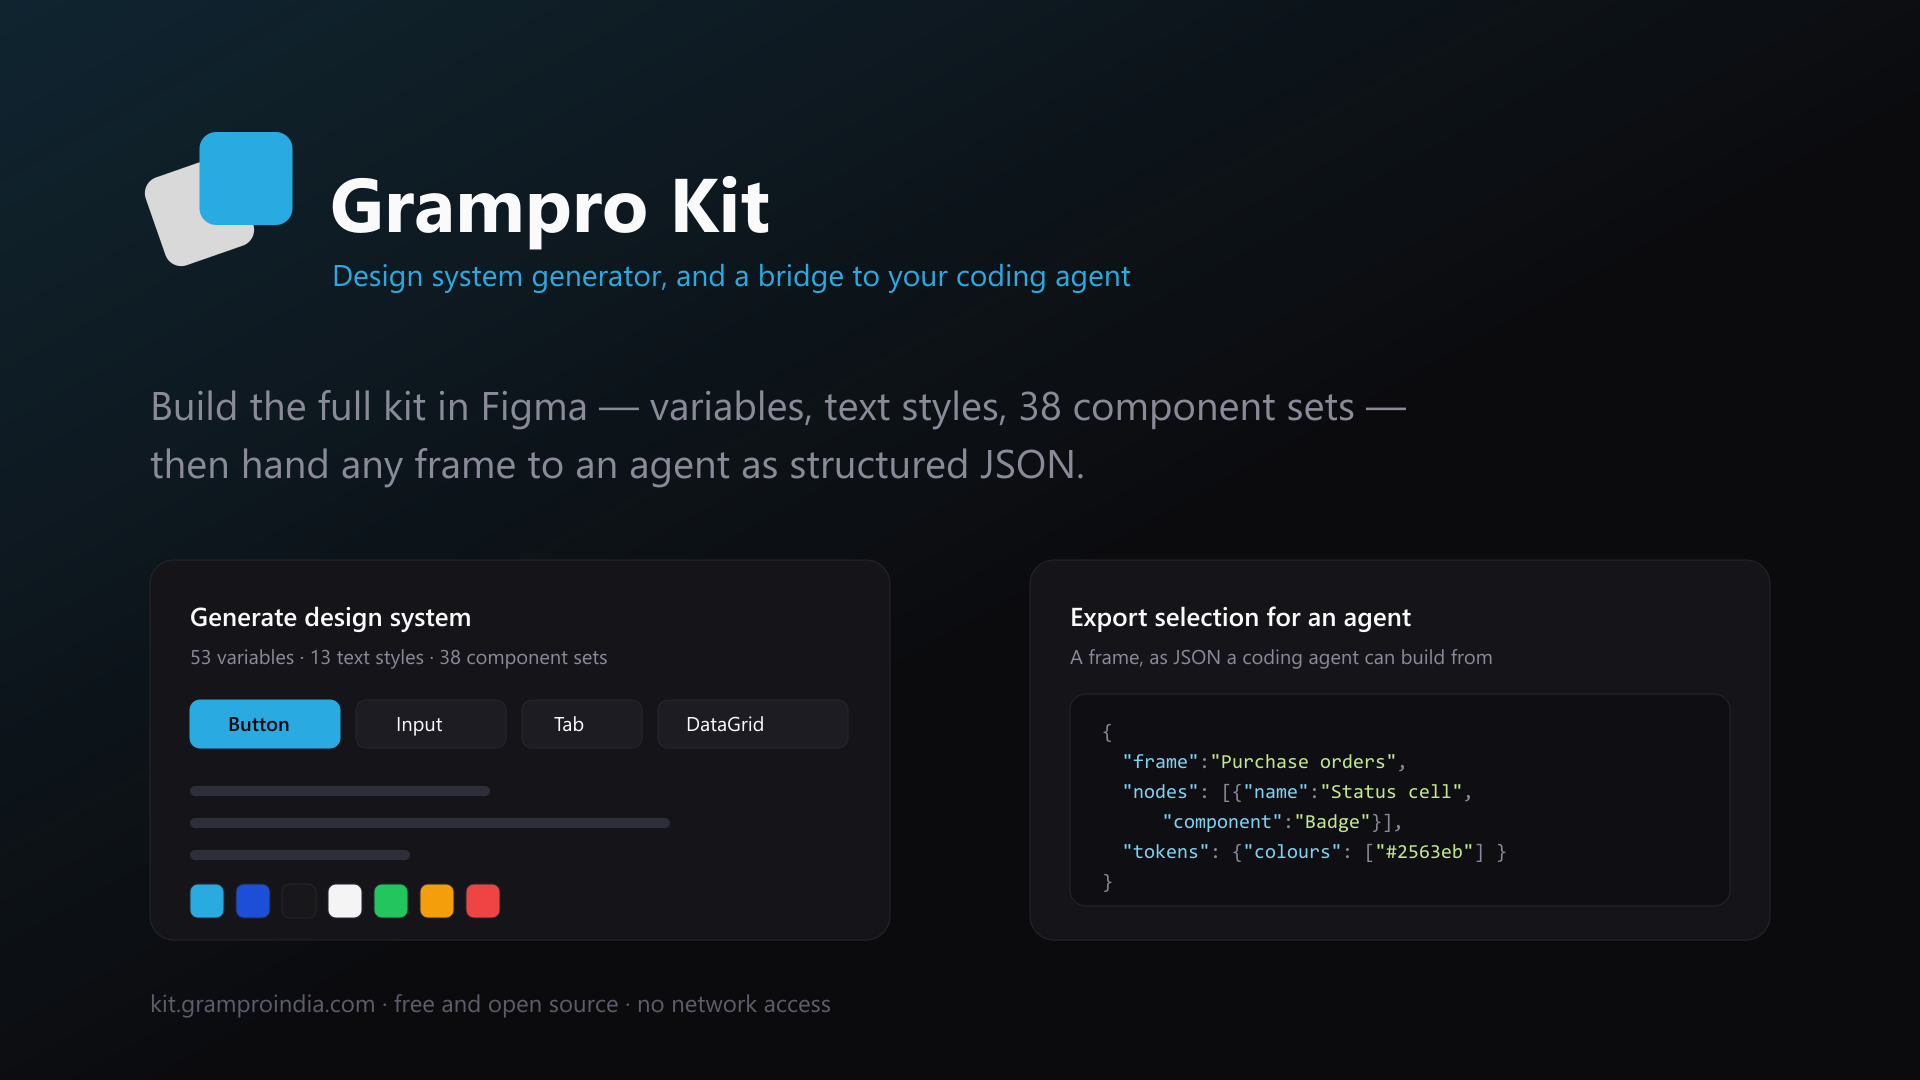
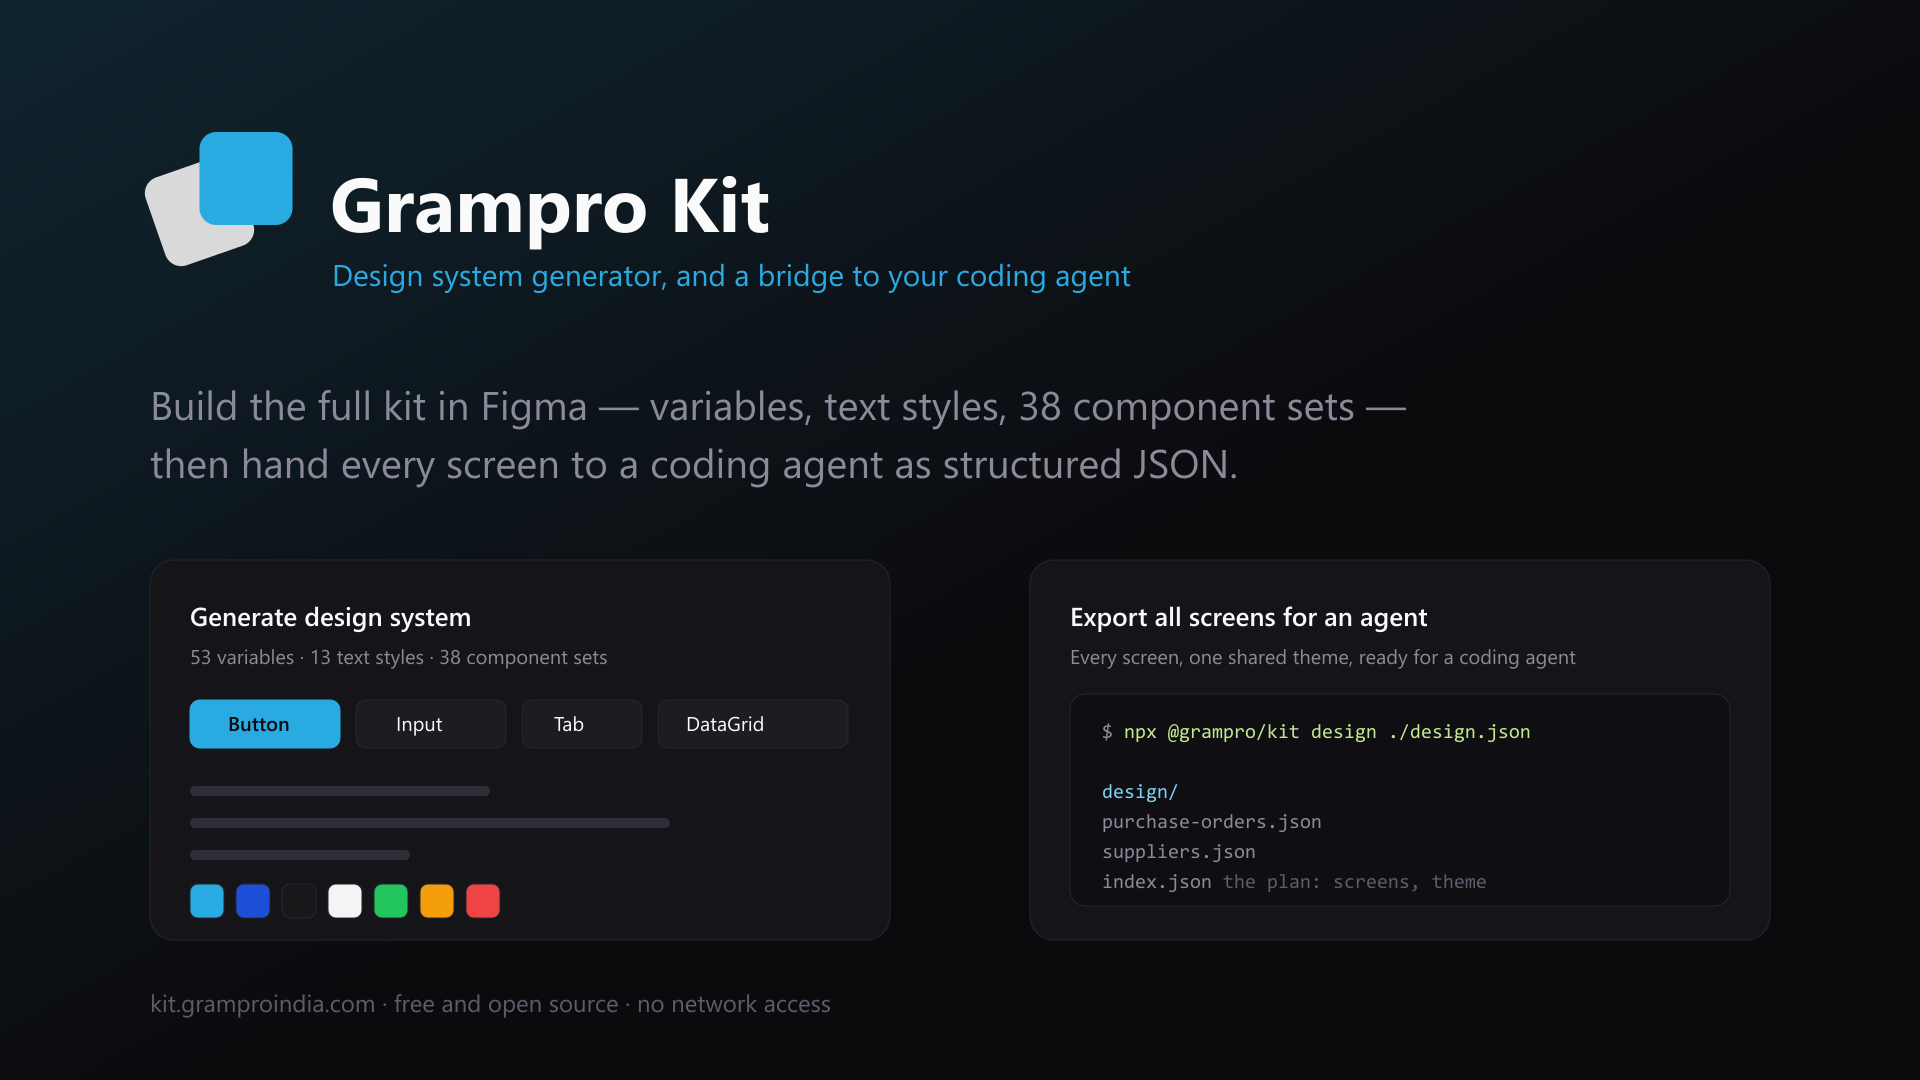
docs(figma-plugin): listing copy and cover art for the current plugin
The listing was written when there were two commands and the export was one
frame at a time. There are three now, and the one that matters most - every
screen at once, split into a folder an agent works through - did not exist
when that copy was drafted.

The cover's right panel showed raw JSON; it shows the folder the CLI writes,
which is what someone reading the listing actually ends up with.

Changed region(s): [[0.5625, 0.6722, 0.7812, 0.825], [0.1875, 0.3972, 0.6562, 0.4583], [0.5625, 0.55, 0.7812, 0.6111]]

diff --git a/figma-plugin/community/LISTING.md b/figma-plugin/community/LISTING.md
@@ -21,7 +21,8 @@ source.
   blocked without it, and it is the step most likely to stop you mid-flow.
 - The plugin imported and working: **Plugins → Development → Import plugin
   from manifest…**, pick `figma-plugin/manifest.json`.
-- Run both commands once in a scratch file. Reviewers run what you ship.
+- Run all three commands once in a scratch file. Reviewers run what you
+  ship, and the export commands are the ones most likely to be tried.
 
 ---
 
@@ -48,7 +49,7 @@ Whichever you choose, set `name` in `manifest.json` to match.
 ## Tagline
 
 ```
-Generate a full design system in Figma, then hand any frame to your coding agent.
+Generate a full design system in Figma, then hand every screen to your coding agent.
 ```
 
 ---
@@ -56,8 +57,8 @@ Generate a full design system in Figma, then hand any frame to your coding agent
 ## Description
 
 ```
-Grampro Kit builds a complete, production-shaped design system inside Figma —
-and then gets it out again, in a form a coding agent can act on.
+Grampro Kit builds a complete, production-shaped design system inside Figma
+— and then gets it out again, in a form a coding agent can act on.
 
 **Generate design system**
 
@@ -73,31 +74,46 @@ One command produces the whole kit:
 Every component is laid out with auto-layout and bound to variables, so
 switching the Color mode to Dark re-themes the whole file.
 
+**Export all screens for an agent**
+
+Walks every page and exports each screen as structured JSON, with one set
+of theme values read across the whole design rather than guessed per frame.
+Save it into your project and split it into a folder:
+
+  npx @grampro/kit design ./design.json
+
+  design/
+    purchase-orders.json
+    suppliers.json
+    index.json          every screen, the shared theme, the regions that repeat
+
+An agent reads index.json to plan, then builds one screen at a time.
+
 **Export selection for an agent**
 
-Select any frame and run the second command. You get JSON describing the
-structure, the text, the auto-layout, the component instances and their
-properties, and the colours, radii and font sizes the design actually uses.
+The same thing, scoped. Select one frame for one screen, or several for
+several — useful when a file holds forty screens and you are building two.
 
-Paste it to a coding agent — Claude Code, Codex, Cursor — and it has what it
-needs to build the screen. With the GramproKit MCP server installed, the
-agent reads the design, installs the React components it needs, writes the
-screen and checks its own JSX against the real component API.
+**What the export carries**
 
-This route needs no API token and never calls Figma's REST API, so it works
-on any file you can open and cannot be rate limited.
+Structure, text, auto-layout, sizes and borders; the component instances and
+their variant properties where a screen was built from a library; and the
+colours, radii and font sizes the design actually uses. Rows that repeat come
+back once with their structure and once per row with their text, which is
+both smaller and closer to what a table component wants.
+
+It needs no API token and never calls Figma's REST API, so it works on any
+file you can open and cannot be rate limited.
 
 **Privacy**
 
 The plugin makes no network requests of any kind. Nothing about your file
-leaves Figma — the export is shown in a textarea for you to copy. The
-manifest declares no allowed domains, which you can verify in the source.
+leaves Figma — the export is shown for you to copy or save. The manifest
+declares no allowed domains, which you can verify in the source.
 
 Free and open source: https://github.com/gramproindia/kit
 Documentation: https://kit.gramproindia.com/mcp-server
 ```
-
----
 
 ## The rest of the form
 
